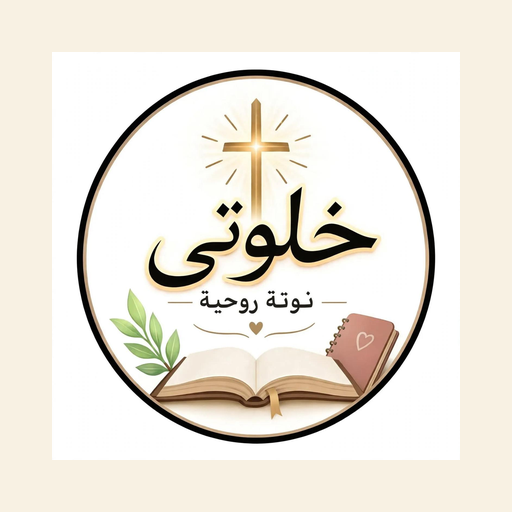
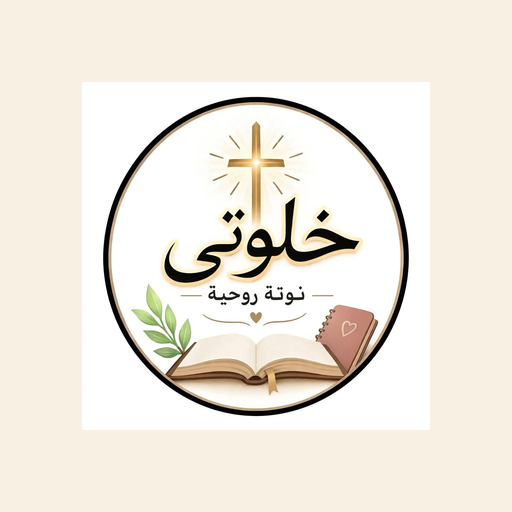
Add files via upload

diff --git a/index.html b/index.html
@@ -13,8 +13,8 @@
   <link href="https://fonts.googleapis.com/css2?family=Amiri:wght@400;700&family=Aref+Ruqaa:wght@400;700&family=Cairo:wght@400;700&family=Noto+Naskh+Arabic:wght@400;700&family=Tajawal:wght@400;700&display=swap" rel="stylesheet">
   <link rel="manifest" href="manifest.json">
   <title>خلوتي - توتة روحية</title>
-  <link rel="icon" type="image/png" sizes="192x192" href="./icon-192.png?v=99">
-  <link rel="apple-touch-icon" href="./apple-touch-icon.png?v=99">
+  <link rel="icon" type="image/png" sizes="192x192" href="./icon-192.png?v=100">
+  <link rel="apple-touch-icon" href="./apple-touch-icon.png?v=100">
   <style>
 
     /* خطوط محلية أوفلاين */
@@ -1203,7 +1203,7 @@
     <!-- Header -->
     <div class="header">
       <div class="logo">
-        <img src="logo.png?v=99" alt="خلوتي - توتة روحية">
+        <img src="logo.png?v=100" alt="خلوتي - توتة روحية">
       </div>
 
       <div class="date-nav">
@@ -2917,8 +2917,8 @@
       // خطوط PDF مفهومة + رابط جوجل عشان تظهر صح في الطباعة
       const fontLink = 'https://fonts.googleapis.com/css2?family=Amiri:wght@400;700&family=Aref+Ruqaa:wght@400;700&family=Cairo:wght@400;700&family=El+Messiri:wght@400;700&family=Noto+Kufi+Arabic:wght@400;700&family=Noto+Naskh+Arabic:wght@400;700&family=Reem+Kufi:wght@400;700&family=Scheherazade+New:wght@400;700&family=Tajawal:wght@400;700&family=Almarai:wght@400;700&family=IBM+Plex+Sans+Arabic:wght@400;700&display=swap';
       w.document.write(`<!DOCTYPE html><html lang="ar" dir="rtl"><head><meta charset="UTF-8"><title>${title}</title>
-  <link rel="icon" type="image/png" sizes="192x192" href="./icon-192.png?v=99">
-  <link rel="apple-touch-icon" href="./apple-touch-icon.png?v=99">
+  <link rel="icon" type="image/png" sizes="192x192" href="./icon-192.png?v=100">
+  <link rel="apple-touch-icon" href="./apple-touch-icon.png?v=100">
         <link rel="stylesheet" href="${fontLink}">
         <style>
           @import url('${fontLink}');
@@ -2930,7 +2930,7 @@
           .logo{text-align:center;margin-bottom:12px;}
           img{max-width:90px;border-radius:50%;}
         </style>
-        </head><body><div class="logo"><img src="logo.png?v=99" alt=""></div><h1>خلوتي - ${title}</h1><div class="frame">${body}</div>
+        </head><body><div class="logo"><img src="logo.png?v=100" alt=""></div><h1>خلوتي - ${title}</h1><div class="frame">${body}</div>
         <script>setTimeout(function(){window.print();}, 800);<\/script>
         </body></html>`);
       w.document.close();

diff --git a/sw.js b/sw.js
@@ -1,8 +1,8 @@
-const CACHE_NAME = 'khalwati-v54-icon-pad';
+const CACHE_NAME = 'khalwati-v55-icon-safe';
 const CORE = [
   './', './index.html', './manifest.json', './sw.js',
   './logo.png', './jesus.jpg', './jesus-prayer-bg.jpg', './hymn.m4a', './sawt-rabina.mp3', './prayer-alarm.mp3',
-  './icon-192.png', './icon-512.png', './apple-touch-icon.png', './icon-mass.png',
+  './icon-192.png', './icon-512.png', './icon-512-maskable.png', './icon-192-maskable.png', './apple-touch-icon.png', './icon-mass.png',
   './bible-svd.js', './bible-deutero.js', './psalms.js', './agpeya-texts.js', './cross-center.png', './parchment-bg.jpg',
   './progress-boy-final.jpg', './progress-boy-high.jpg', './progress-boy-low.jpg',
   './progress-girl-final.jpg', './progress-girl-high.jpg', './progress-girl-low.jpg',
